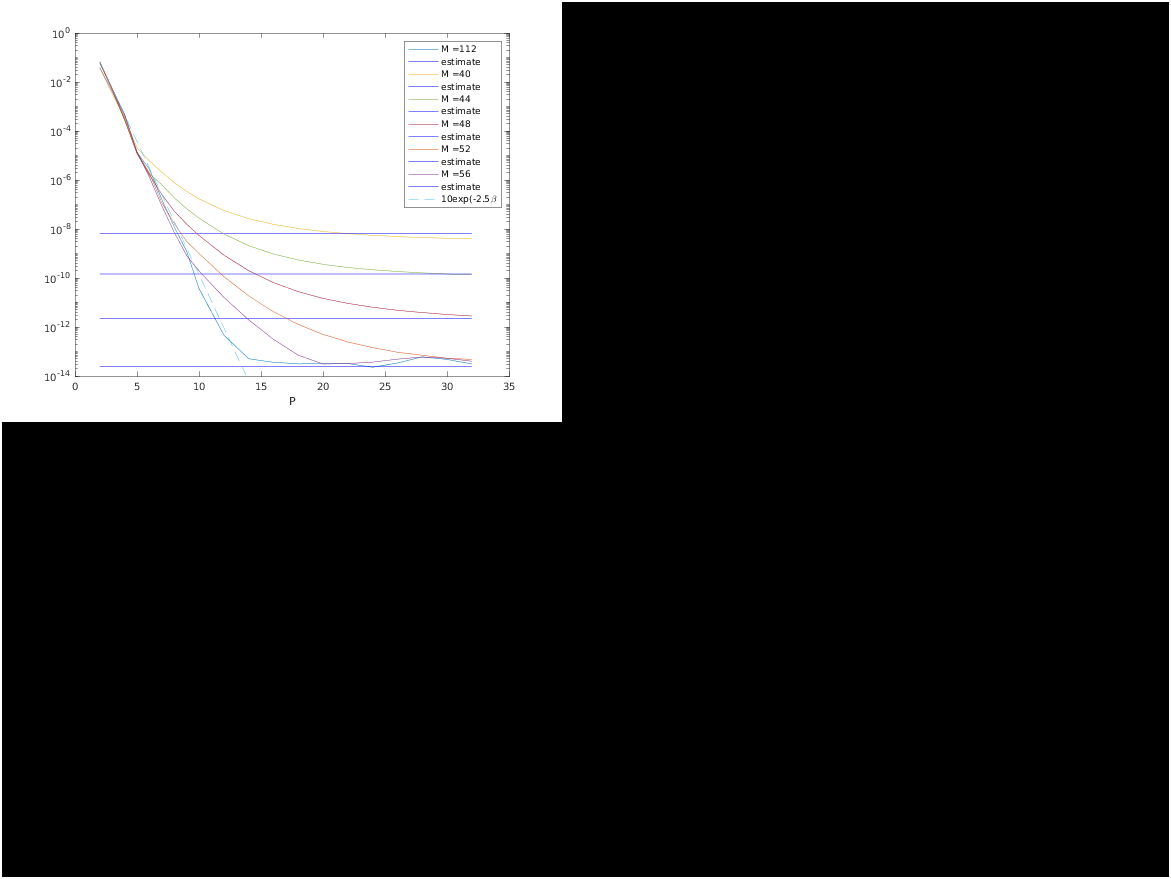
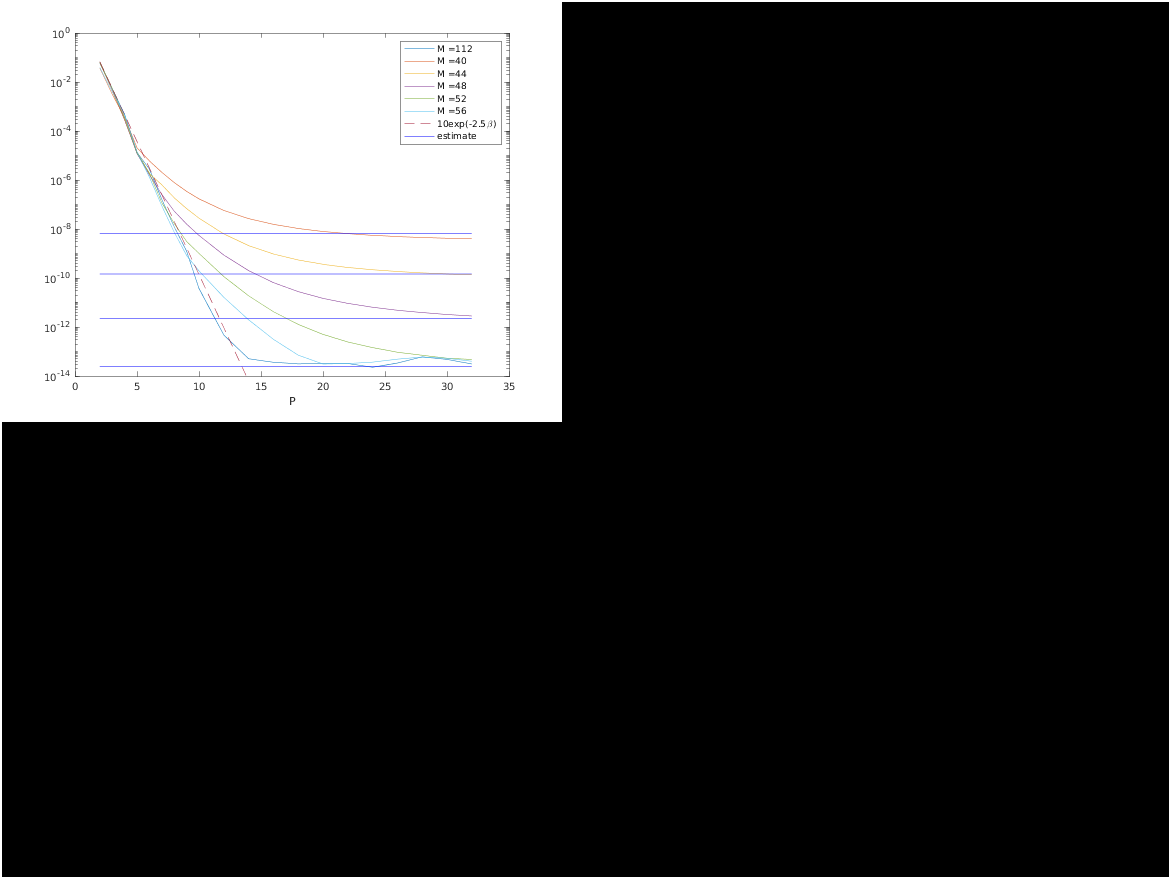
imgs

Changed region(s): [[0.3382, 0.0307, 0.4304, 0.2457], [0.123, 0.1843, 0.1537, 0.2457], [0.1537, 0.2765, 0.1845, 0.3072]]

diff --git a/SE_Stokes_run/SE3P_Stokes/P_error.m b/SE_Stokes_run/SE3P_Stokes/P_error.m
@@ -63,7 +63,7 @@ for M = [112 MM]
 	str = [str strcat('M = ',num2str(M))];
 end
 semilogy(PP,10*exp(-2.5.*PP),'--')
-str = [str ,'10exp(-2.5\beta'];
+str = [str ,'10exp(-2.5\beta)'];
 for i = 1:length(e_vec)
     semilogy(PP,ones(1,length(PP))*e_vec(i),('bl-'))
 end
